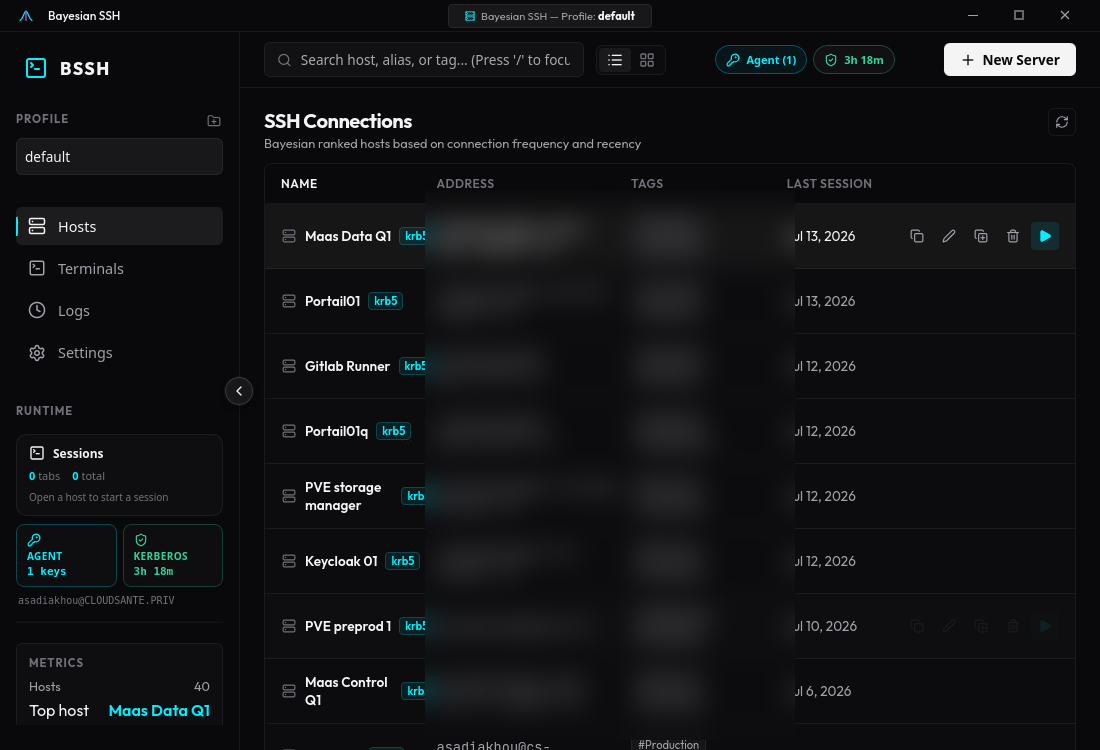
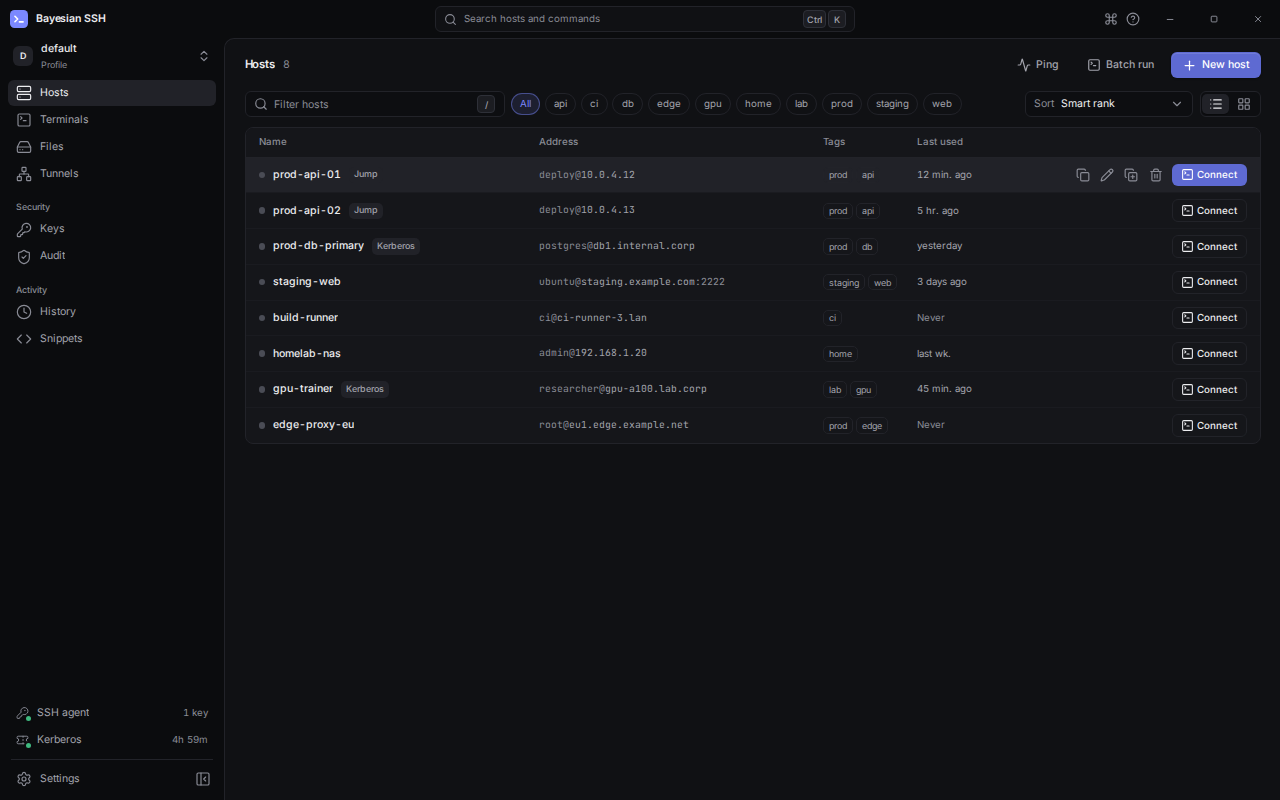
docs: refresh desktop guide and screenshots for 2.6.0; snap website points to the docs site

diff --git a/docs/src/user-guide/desktop.md b/docs/src/user-guide/desktop.md
@@ -1,74 +1,265 @@
 # Desktop GUI Mode
 
-Bayesian SSH features a premium, standalone desktop client built on SvelteKit, TypeScript, and Rust/Tauri. It is designed to fit seamlessly into standard developer workflows with high aesthetic fidelity and visual design inspired by modern developer platforms like Vercel and VS Code.
+Bayesian SSH ships a standalone desktop app: a SvelteKit/TypeScript front end on a
+Rust/Tauri backend. It manages the same hosts, profiles and session history as the
+CLI, and adds terminals, a file browser, tunnel rules and a security audit.
 
-To launch the desktop GUI app:
+## Launching
 
 ```bash
-bayesian-ssh-desktop
+bssh desktop
+bayesian-ssh desktop
 ```
 
-![Bayesian SSH Desktop Home](../assets/desktop-home.png)
+`desktop` (alias `gui`) starts the GUI detached in the background and returns the
+prompt immediately. The launcher looks for the `bayesian-ssh-gui` binary next to the
+CLI executable, then in `PATH`.
 
----
+Packaged installs start the same `bayesian-ssh-gui` binary:
 
-## Workspace Navigation
+- the `.deb`, `.rpm` and AppImage bundles are built under the `bayesian-ssh-desktop`
+  product name; the `.deb` and `.rpm` add an entry to the application menu;
+- in the snap, the `bayesian-ssh.gui` app runs the desktop binary and is also
+  available from the app menu.
 
-The GUI client is divided into a three-pane layout:
-1. **Window Titlebar**: A custom drag-supported titlebar showing the active Profile environment, window controls, and host information.
-2. **Left Navigation Sidebar**: Contains quick access tabs, active environment/profile selector, quick tag filters, and SSH Agent status check.
-3. **Main Viewport**: Displays the content of the active tab.
+The first launch runs onboarding: profile name and connection defaults, an optional
+openSSH import, the theme, and an optional restore from a backup file.
 
----
+## Window layout
 
-## Tabs
+- **Title bar** — app name, a command search button (`Search hosts and commands`,
+  `Ctrl`/`Cmd` + `K`), a keyboard-shortcuts button, an About button and the window
+  controls. The bar is draggable.
+- **Sidebar** — a profile switcher at the top, grouped navigation, status entries at
+  the bottom, and a collapse toggle.
+- **Main area** — the active view, each with a single header holding its title and
+  one primary action.
 
-### 1. Hosts (Connections)
-Browse and search saved connection profiles using a live search input.
-- **View Modes**: Toggle between **List View** (linear row layout with column metadata) and **Grid View** (modern visual cards layout).
-- **Interactive Rows/Cards**:
-  - **Double-click** any host row or card to spawn an interactive SSH terminal.
-  - **Copy SSH Command**: Instantly copy the raw terminal SSH command to the system clipboard.
-  - **Duplicate Connection**: Clone a host configuration. Upon duplication, the new clone flashes briefly in cyan, is highlighted, and immediately slides open the Edit drawer to update hostname, ports, or credentials.
-  - **Edit Connection**: Slide over a side drawer containing form fields for Hostname/IP, Port, User, SSH Private Key path, Bastion Jump host, Kerberos/GSSAPI options, and Tags.
-  - **Delete Connection**: Opens a premium, in-app delete modal showing the exact username/host details to prevent accidental deletions.
+Sidebar navigation:
 
-### 2. Terminals
-Spawns interactive terminal viewports powered by Xterm.js and a dedicated Rust PTY session manager backend.
+- **Hosts**, **Terminals**, **Files**, **Tunnels** (Files and Tunnels appear only
+  when they are enabled under Settings → Features)
+- **Security**: Keys, Audit
+- **Activity**: History, Snippets
+- At the bottom: **Background** (only while sessions run outside the tab bar), the
+  **SSH agent** entry (state plus loaded-key count; click to start the agent or open
+  its manager), the **Kerberos** entry, and **Settings**. The Kerberos entry stays
+  hidden until a connection actually uses Kerberos.
 
-![Bayesian SSH Terminals Tab](../assets/desktop-terminals.png)
+The sidebar collapses automatically when the window is narrower than 860 px.
 
-- **Multi-host Split View**: Spawns a dedicated left **Quick Connect** sidebar displaying all saved hosts. Click any host in the sidebar to spawn a new interactive tab concurrently next to existing ones, without losing previous sessions.
-- **Popout Terminals**: Move active terminal tabs out of the main desktop app window into standalone windows. Supported via full drag-and-drop/reattachment workflows.
-- **PTY Session Isolation**: Each session runs its own isolated background process loop. Closing one session cleanly disposes of its subprocess without affecting other active connections.
+## Views
 
-### 3. Logs (History)
-An audit table displaying complete connection metrics:
-- Connection Hostname and environment name.
-- Session start and end timestamps.
-- Reachability status (Active/Closed/Failed).
-- Exit codes returned from the shell or SSH connection.
+### Hosts
 
-### 5. Settings
-Adjust preferences for the desktop environment:
+![Bayesian SSH desktop hosts list](../assets/desktop-home.png)
 
-![Bayesian SSH Settings Tab](../assets/desktop-settings.png)
+The host list is the main view. It has a filter box, tag chips, a sort selector and a
+list/grid toggle.
 
-- **Appearance Theme**: Select from Zinc (Slate Minimalist), Cyberpunk Neon, OLED Pitch Black, or Slate (Sleek Navy).
-- **Fuzzy Search Scoring**: Adjust reachability weight vs pattern matches.
-- **SSH Agent Integration**:
-  - Auto-start SSH agent on app launch.
-  - Custom SSH agent socket path (pre-filled with the active shell's `$SSH_AUTH_SOCK` value by default).
-- **Connection Defaults**:
-  - Global Default SSH User.
-  - Global Default SSH Port.
-  - Global Default Identity File (SSH private key path).
+- **Sort** — Smart rank (frequency and recency), Last used, Name or Address.
+- **List view** — columns Name, Address, Tags and Last used. Address is shown as
+  `user@host`, with `:port` when it is not 22. Hosts with Kerberos or a jump host
+  carry a badge.
+- **Grid view** — the same information as cards, mounted progressively while you
+  scroll. The list is windowed, so large host lists stay responsive.
+- **Ping** — checks reachability for every host, then reports `n/m up` and shows a
+  latency next to each reachable host.
+- **Batch run** — opens the batch-execution modal (see below).
+- **New host** — opens the host form.
 
----
+Row actions (also on cards): **Connect**, **Copy SSH command**, **Edit**,
+**Duplicate** and **Delete**. Duplicate creates `<name> (Copy)`, flashes the new row
+and opens it for editing. Delete asks for confirmation and shows `user@host:port`.
 
-## Modals & Drawers
+Keyboard: `↑`/`↓` or `j`/`k` move the selection, `Enter` connects, `Ctrl`/`Cmd` + `E`
+edits the selected host. With no hosts yet, the empty state offers
+**Import ~/.ssh/config** and **New host**.
 
-The GUI avoids ugly OS native alerts and prompts, substituting them with bespoke animations:
-- **Delete Confirmation Modal**: Center-aligned dark-themed overlay showing warning labels, danger icon ring with a pulsing visual glow, and confirmation controls.
-- **SSH Agent Keys Manager**: Lists loaded SSH keys present in the current socket's keyring and enables quick-addition of identity file keys.
-- **Environments Manager**: Add, delete, and switch configuration profiles.
+The host form (`New host` / `Edit host`) collects Name, Host, Port, User and an
+identity file, plus a Kerberos switch, comma-separated tags and an **Advanced**
+section for a jump host and jump user. Changes apply to new sessions; saved hosts are
+written to the active profile.
+
+### Terminals
+
+![Bayesian SSH desktop terminals](../assets/desktop-terminals.png)
+
+Terminals open as tabs over xterm.js sessions backed by Rust PTY processes. The empty
+state lists your recent hosts to connect with, and the **+** button opens a host
+launcher with a `Connect to host…` filter.
+
+Each tab shows a status dot (Connected, Connecting, Failed to connect, Disconnected)
+and a close button; middle-clicking a tab closes it. With an active session:
+
+- **Find** (`Ctrl`/`Cmd` + `F`) opens a per-tab search bar over the scrollback
+  (`Enter` next match, `Shift` + `Enter` previous).
+- **Font size** buttons adjust the terminal text; `Ctrl`/`Cmd` + mouse wheel zooms,
+  and `Ctrl`/`Cmd` + `+`/`-`/`0` adjust or reset it when the terminal is not focused.
+  The value is remembered in settings.
+- **More** offers Open in new window, Run in background, Export scrollback (to a
+  `.txt` file), Clear screen, Manage sessions…, and Close all sessions.
+
+Sessions can live in three places: a tab, a pop-out window, or the background.
+Dragging a tab away from the tab strip opens it in its own window; dragging a pop-out
+or background session back onto the tab bar docks or reattaches it with its buffered
+output. The **Running sessions** manager lists everything outside the tab bar and can
+focus, dock, reattach or terminate each session, or terminate all of them.
+
+Closing the window while sessions are open shows a confirmation with **Cancel**,
+**Minimize to tray** (keeps the sessions running) and **Disconnect and quit**. With no
+open sessions the window simply hides to the tray.
+
+Terminal copy/paste uses the usual key combinations (`Ctrl`/`Cmd` + `C` for a
+selection, `Ctrl`/`Shift` + `C`, `Ctrl`/`Cmd` + `V`, `Ctrl`/`Shift` + `V` or
+`Shift` + `Insert`). OSC 52 clipboard writes from remote hosts are honoured; reads are
+refused.
+
+### Files
+
+The Files view browses a remote directory over SFTP. Pick a host and press
+**Connect**; the header then shows `user@host` and the button becomes **Disconnect**.
+
+- Breadcrumbs navigate the tree; a go-to button turns the path into an editable field
+  (`Enter` loads, `Esc` cancels).
+- **Parent directory** and **Refresh** buttons sit in the toolbar, next to quick
+  bookmarks for `/`, `~`, `/var/www`, `/etc`, `/var/log` and `/tmp`.
+- The filter matches a file name or its permissions, and a **Hidden files** toggle
+  shows or hides dotfiles (with a count of what is hidden).
+- List and grid layouts are available; each entry shows its type icon, size,
+  permissions and modification time, and its remote path can be copied.
+
+The browser is read-only: it lists directories and reports errors, but it does not
+upload or download files.
+
+### Tunnels
+
+The Tunnels view manages port-forwarding rules: local (`-L`), remote (`-R`) and
+SOCKS5 dynamic (`-D`). You can start from a preset or add a rule with a host, type,
+local port, remote host and remote port; the form validates the values and previews
+the matching `ssh` command. Each rule can be enabled or disabled, edited, deleted, or
+have its local address copied.
+
+Rules are configuration held by the view: no tunnel process is started, and rules are
+not persisted across restarts. The section is hidden when Tunnels is turned off under
+Settings → Features.
+
+### Keys
+
+The Keys view lists the identity files in `~/.ssh`, paired from each `*.pub` file:
+
+- columns **Key** (name, comment and shortened path), **Type**, **Fingerprint**
+  (copyable) and **Permissions**;
+- a green permissions badge means the private key is only readable by you; a red
+  badge means group/other bits are set, and an alert at the top gives a copyable
+  `chmod 600` command for every affected key;
+- **Generate key** creates a new pair in `~/.ssh` (Ed25519, or RSA for older servers)
+  with an empty passphrase;
+- **Deploy** copies a public key to a chosen host's `authorized_keys`.
+
+### Security audit
+
+The audit view runs on open and scores the local setup out of 100 with a grade, plus
+counts for Critical, Warnings and Info findings. A severity filter narrows the list.
+Each finding shows its description and a copyable remediation command.
+
+The checks cover StrictHostKeyChecking being disabled, overly permissive permissions
+on the config directory and database file, private keys readable by other users,
+connections with no identity key and no Kerberos, and connections unused for more than
+90 days. **Fix permissions** tightens the config directory, database file, `~/.ssh`
+and key files that are group/other-accessible, then re-runs the audit. **Re-scan**
+re-runs it manually.
+
+### History
+
+Session history is grouped by day (Today, Yesterday, then dates) and shows Host,
+Started (relative, with an absolute tooltip in the configured timezone), Duration,
+Status and Exit code. Rows are badged **Succeeded**, **Failed** or **Running**; the
+status chips (`All`, `Succeeded`, `Failed`) and the search box filter the table.
+**Export CSV** downloads every recorded session.
+
+### Settings
+
+Settings has its own sidebar of sections. Every control saves immediately; there is no
+Save button.
+
+- **Profiles & workspace** — switch or manage profiles, choose how hosts are ranked
+  (usage-ranked Bayesian scoring or fuzzy matching), set the OpenSSH config file used
+  for imports, import hosts, encrypt/export/restore backups, and see the config,
+  profile and database paths.
+- **SSH agent** — start the agent on launch, point at a custom agent socket, and set
+  the default user and port used by hosts that don't define their own.
+- **Kerberos** — monitor ticket expiry and set the warning threshold in minutes.
+- **Terminal** — font family, size and line height, cursor style and blinking,
+  scrollback size, copy-on-select, snippet confirmation, and whether the file browser
+  lists dotfiles.
+- **History** — record session history, cap the number of stored entries, and set the
+  backend log level.
+- **Appearance** — pick a theme and the timezone used for dates in history, logs and
+  audit. Themes: **Graphite**, **Midnight**, **OLED black** and **Slate**.
+- **Features** — turn the SFTP file browser and the Tunnels section on or off; the
+  sidebar updates immediately.
+- **Updates** — shows the current version and handles updates for the way the app was
+  installed.
+
+  ![Bayesian SSH desktop settings](../assets/desktop-settings.png)
+
+  In-app updates apply to the AppImage and to the `bayesian-ssh-desktop` `.deb`/`.rpm`
+  from GitHub releases: **Check for updates** reports a newer signed build, and
+  **Install and restart** downloads, verifies and installs it. Open terminal sessions
+  are closed and the app restarts. Snap installs are updated by the Snap Store (the
+  section shows `sudo snap refresh bayesian-ssh`), and other installs (raw binaries
+  from `install.sh` or release tarballs, the unified CLI+GUI packages, and source
+  builds) are updated the way they were installed.
+
+## Modals and dialogs
+
+- **Command palette** (`Ctrl`/`Cmd` + `K`) — searches hosts and commands. It groups
+  results into Hosts, Actions, Navigation and Themes; with an empty query it shows the
+  first hosts plus the actions and navigation entries. Host entries connect on
+  selection; actions cover New host, Run command on hosts, Ping all hosts, Manage
+  sessions and Fix key permissions; navigation entries jump to a view; theme entries
+  switch the theme.
+- **Batch run** — runs one command on several hosts in parallel. Pick hosts (with
+  filter, tag chips and All/None/Invert/Prod/Non-prod shortcuts), enter a command,
+  optionally save it as a template, choose dry run and a timeout, then preview or run.
+  Results list each host with its exit code, duration and stdout/stderr, and can be
+  exported as Markdown, CSV, JSON or plain text. A History tab keeps recent runs (for
+  inspection or repeat) and a Templates tab manages built-in and custom commands.
+  `Ctrl`/`Cmd` + `Enter` runs, `Ctrl`/`Cmd` + `Shift` + `D` toggles dry run.
+- **Snippets** — saved commands with a title, category, description and command. Search
+  and category chips narrow the list; snippets can be created, edited, deleted, copied,
+  or sent to the active terminal tab (**Run in terminal**, which asks for confirmation
+  unless that is disabled in settings; with no active terminal the command is copied
+  instead).
+- **Profiles** — list profiles, create a new one, and delete any profile that is
+  neither active nor the default. Switching profiles happens from the sidebar profile
+  menu, which also opens this dialog through **Manage profiles…**.
+- **SSH agent** — shows the agent socket and the loaded keys with their fingerprints,
+  and adds a private key file to the agent.
+- **Kerberos** — shows ticket status (principal, realm, remaining lifetime, renew
+  time, cache and config paths) and acquires a ticket with `kinit`, or renews the
+  existing one (`kinit -R`, with an optional password). Ticket options cover
+  forwardable, proxiable, lifetime and renewal lifetime.
+- **About** — version, active profile, config and database paths, license, and links to
+  the source code, release notes and issue tracker.
+- **Confirmations** — host deletion, all-session close, and quitting with open sessions
+  all use in-app dialogs instead of native prompts.
+
+## Keyboard shortcuts
+
+Press `?`, `F1` or `Ctrl`/`Cmd` + `/` to open the shortcut sheet. Single-key shortcuts
+work when no text field is focused.
+
+| Action | Keys |
+| --- | --- |
+| Command palette | `Ctrl`/`Cmd` + `K` |
+| Keyboard shortcuts | `?`, `F1`, `Ctrl`/`Cmd` + `/` |
+| Close a dialog or clear the filter | `Esc` |
+| Hosts / Terminals / Keys / Audit / History / Settings | `1` / `2` / `3` / `4` / `5` / `6` |
+| Focus the host filter | `/` |
+| New host | `N`, `Ctrl`/`Cmd` + `N` |
+| Move host selection | `↑`/`↓`, `j`/`k` |
+| Connect to the selected host | `Enter` |
+| Edit the selected host | `Ctrl`/`Cmd` + `E` |
+| Terminal font size (when the terminal is not focused) | `Ctrl`/`Cmd` + `+` / `-` / `0` |

diff --git a/docs/src/reference/distribution.md b/docs/src/reference/distribution.md
@@ -178,6 +178,23 @@ cd target/snap && snapcraft pack
 Without `SNAPCRAFT_STORE_CREDENTIALS` the snap is still built and kept as a
 workflow artifact; the publish step leaves a `::notice::` instead.
 
+### Store listing
+
+On every stable release the `snap` workflow runs `snapcraft upload-metadata`,
+which pushes the icon, summary and description from the snap. It does not
+touch the links or screenshots; those are kept on the listing
+(<https://snapcraft.io/bayesian-ssh/listing>) and survive each sync:
+
+- links: website `https://abdoufermat5.github.io/bayesian-ssh/`, source
+  `https://github.com/abdoufermat5/bayesian-ssh`, issues/contact
+  `https://github.com/abdoufermat5/bayesian-ssh/issues`;
+- screenshots: 1280×800 captures of the desktop app (Hosts, Terminals, command
+  palette, Files, Audit), taken against the e2e mocked backend so they hold
+  only demo data.
+
+Change either on the dashboard, and keep the snapcraft.yaml link fields in
+step.
+
 ## Flatpak (Flathub)
 
 Flatpak is the one channel with no automation secret: Flathub builds from a
